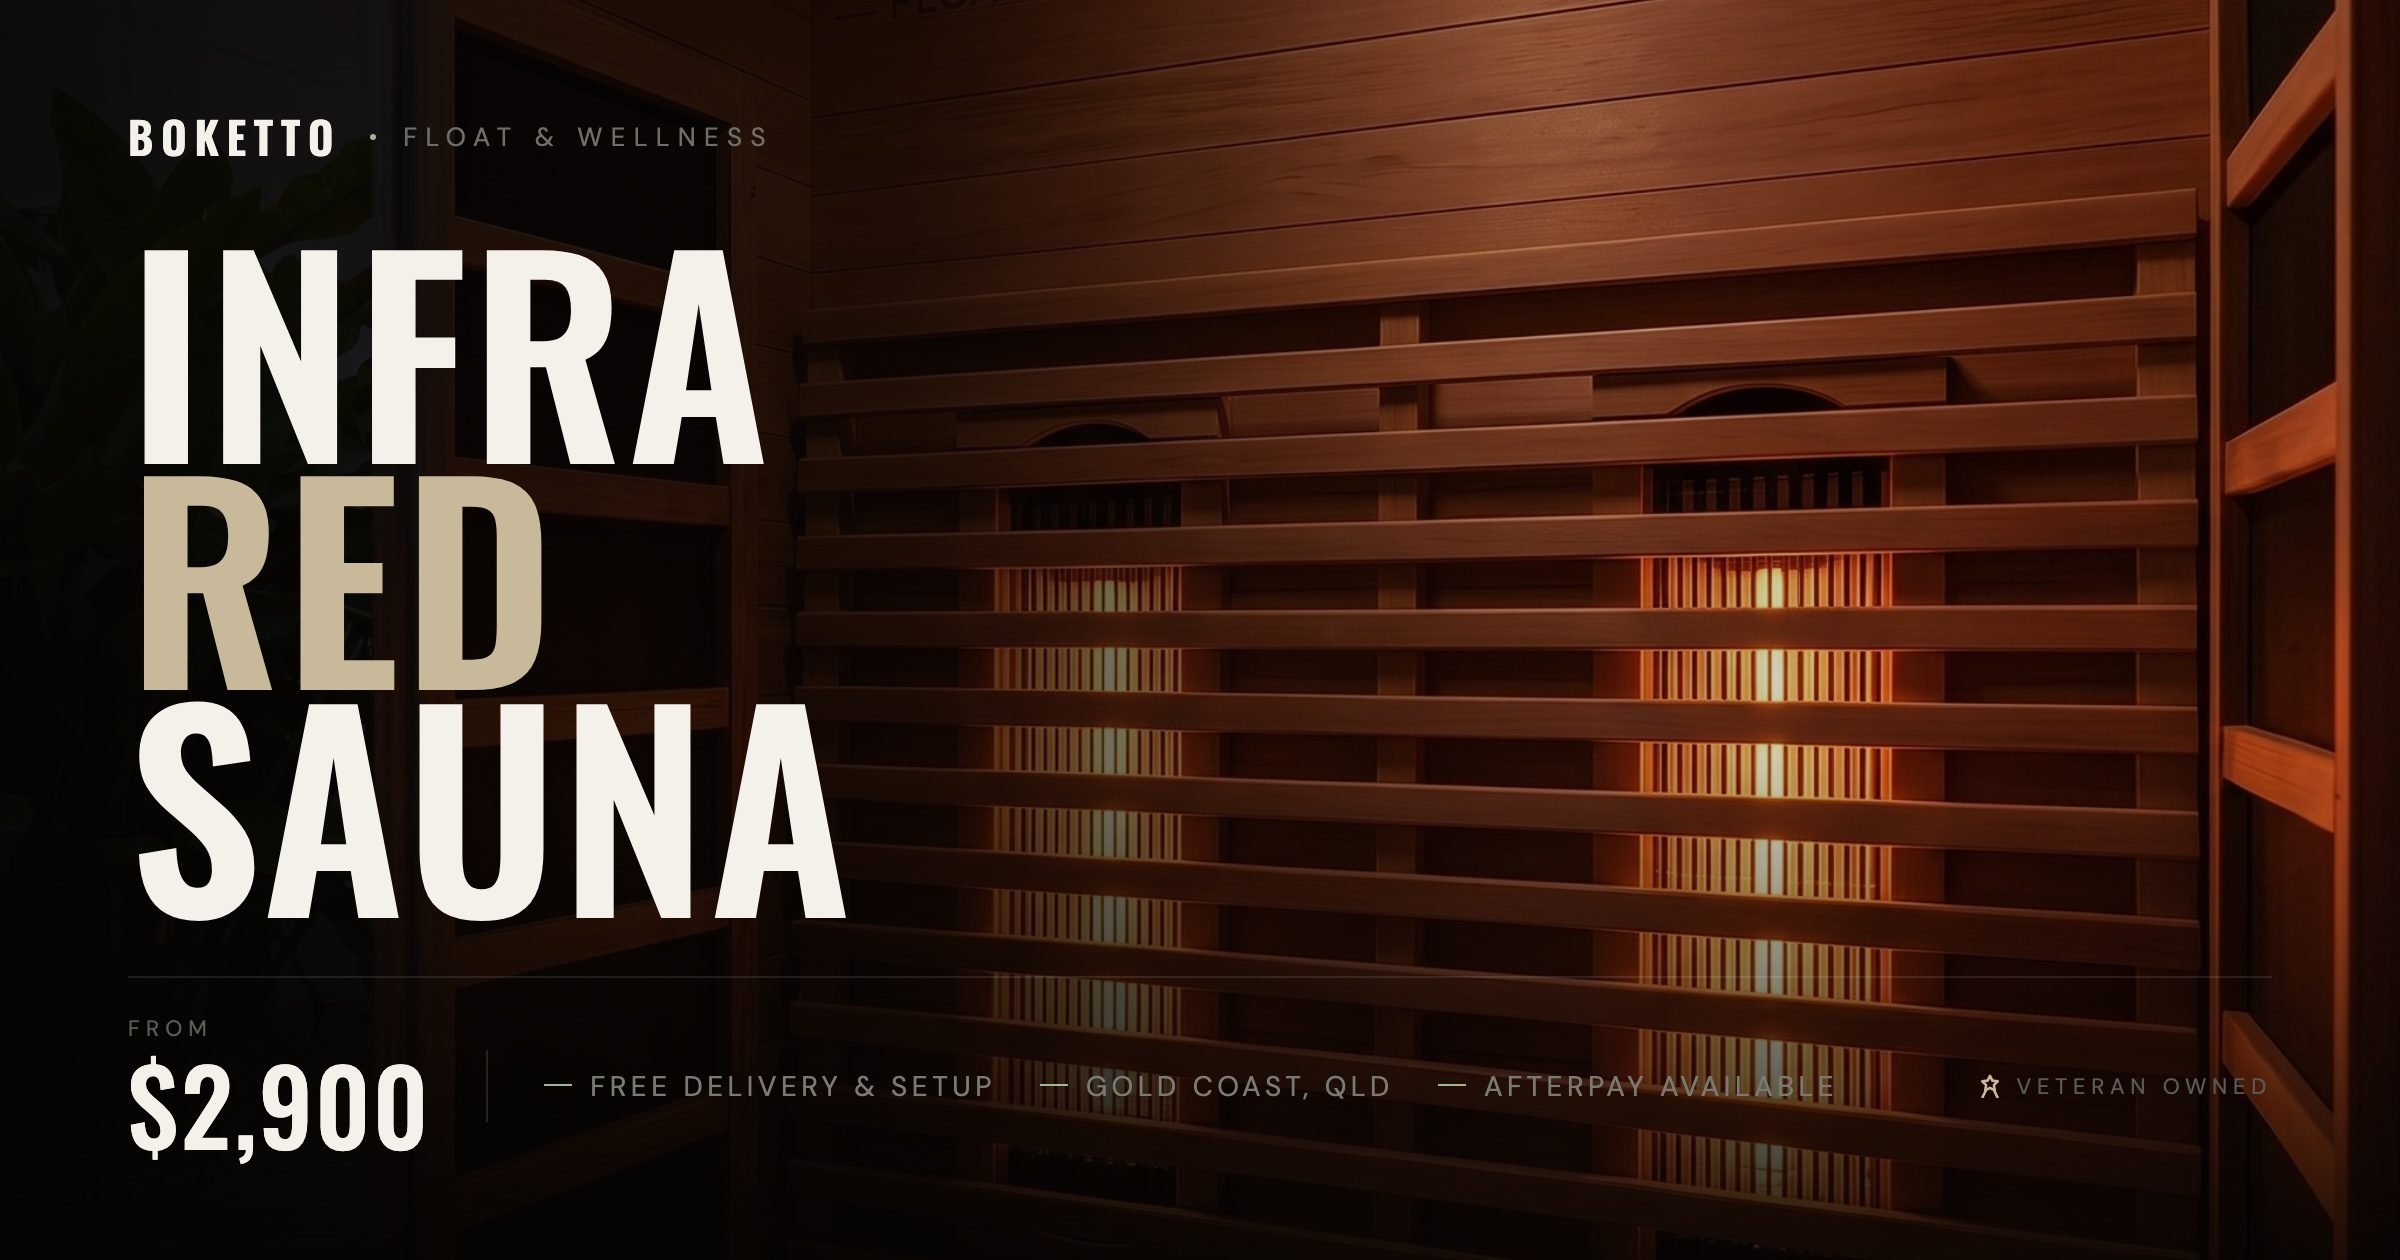
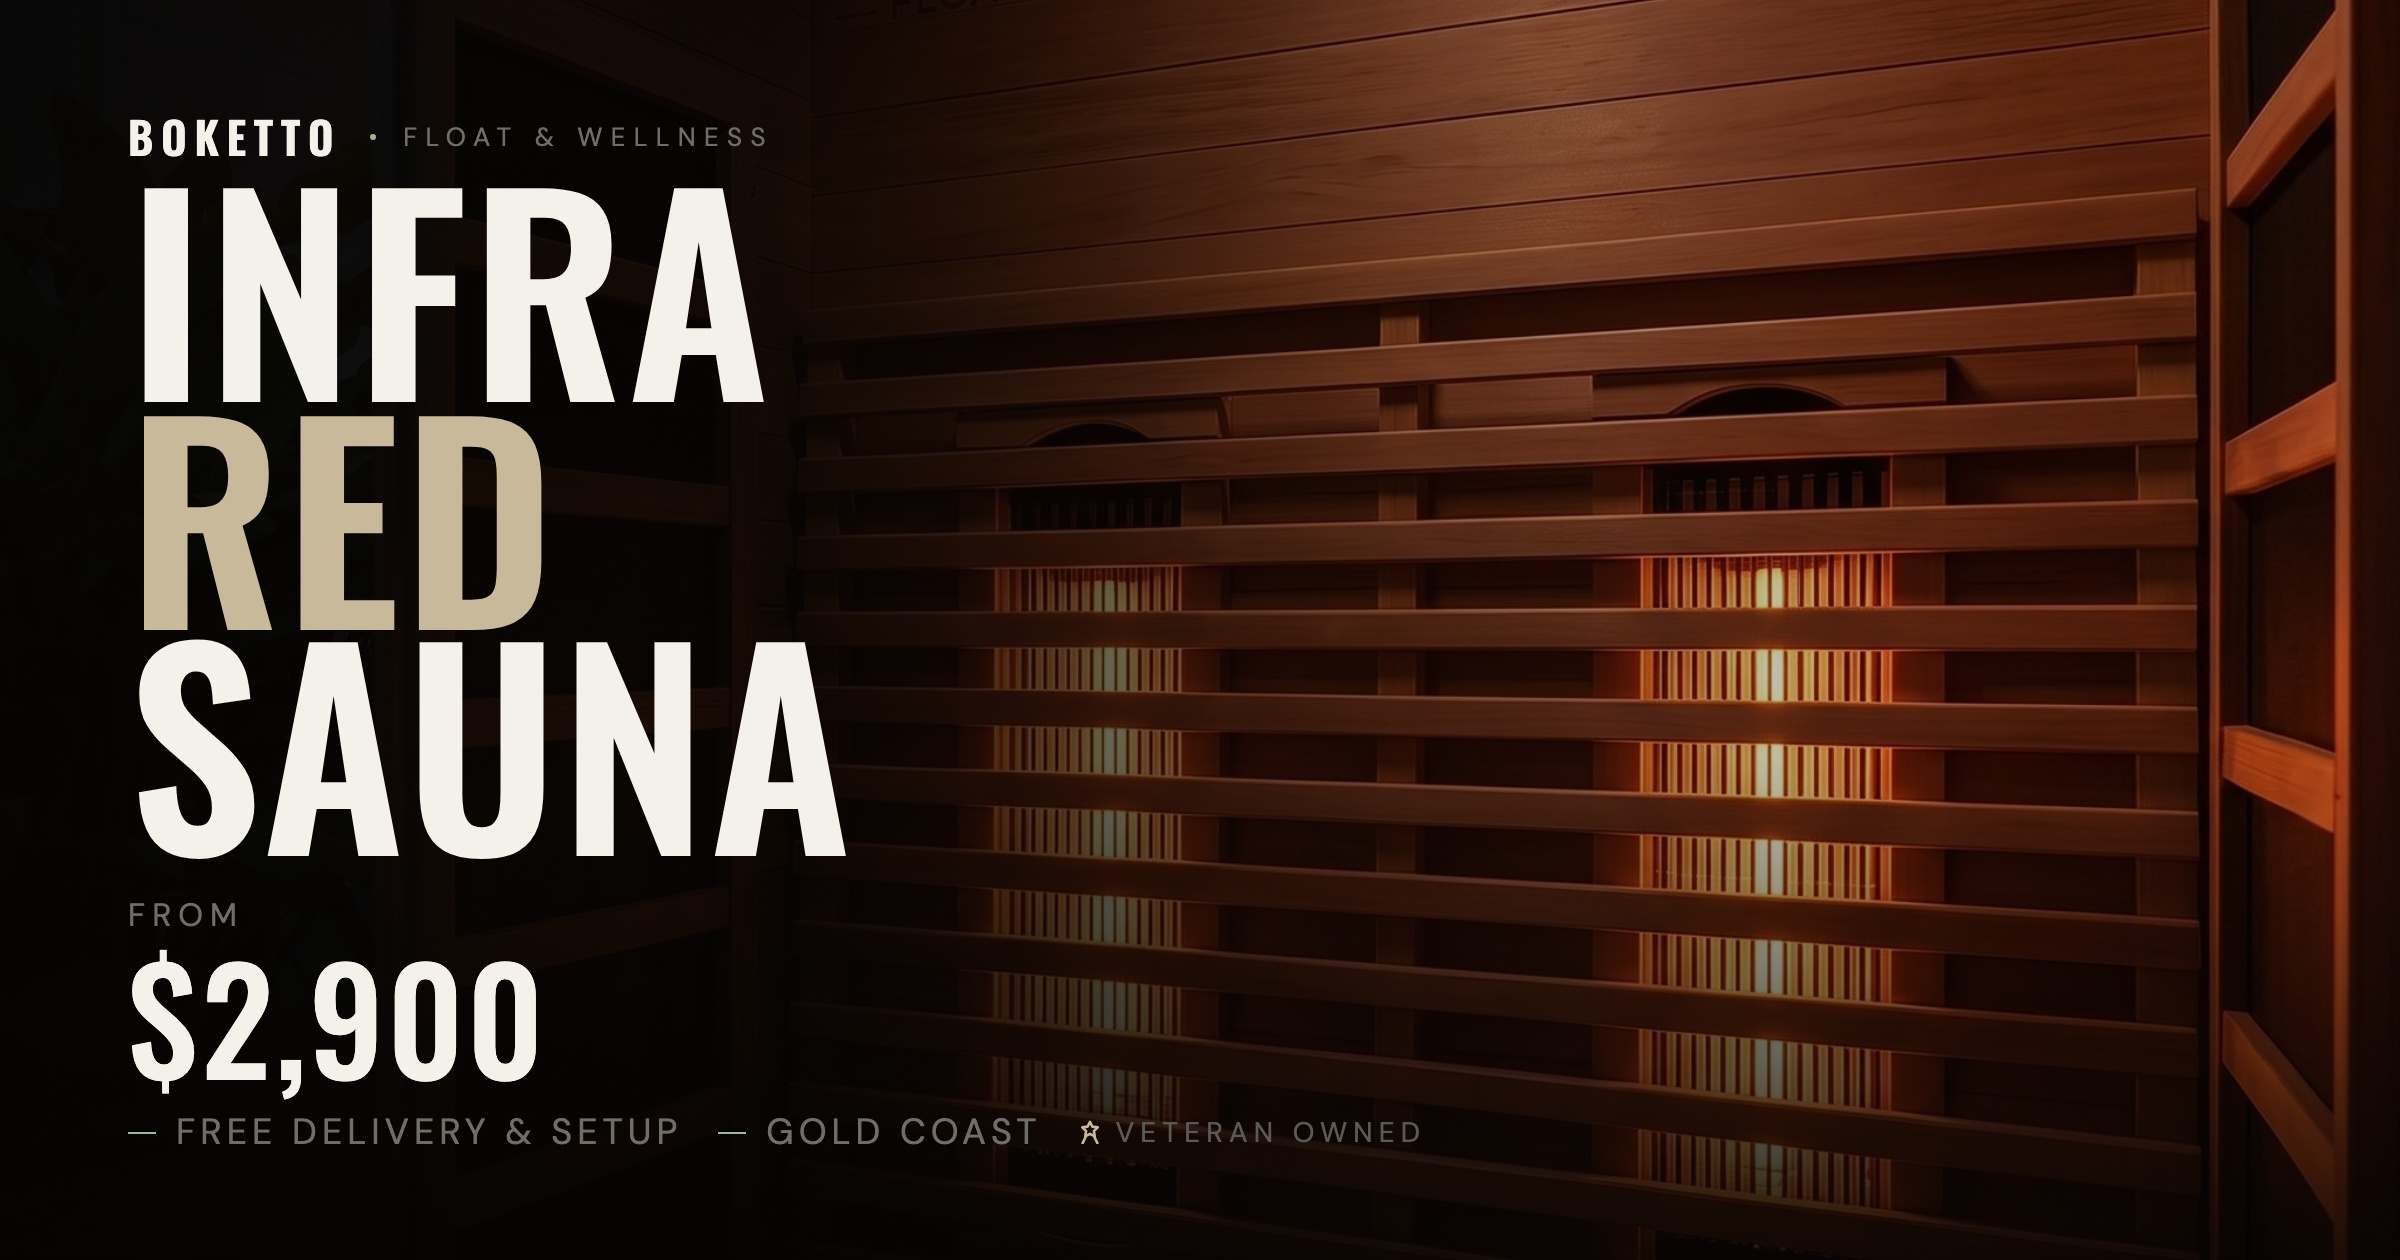
update: iMessage-optimised thumbnail — bigger price, no fine print bar
Price moved into main stack at 72px (readable at 4x scale-down).
Spec bar removed — only headline + price survive iMessage thumbnail.
Stronger left gradient for legibility.

diff --git a/social-card.html b/social-card.html
@@ -32,9 +32,9 @@
     inset: 0;
     background: linear-gradient(
       to right,
-      rgba(5,4,3,0.92) 0%,
-      rgba(5,4,3,0.72) 38%,
-      rgba(5,4,3,0.28) 62%,
+      rgba(5,4,3,0.96) 0%,
+      rgba(5,4,3,0.88) 32%,
+      rgba(5,4,3,0.40) 58%,
       rgba(5,4,3,0.0)  100%
     );
   }
@@ -103,73 +103,57 @@
   .headline-inner { display: block; }
   .headline .stone { color: #c8b99a; }
 
-  /* Bottom bar — single row, no wrapping */
-  .bottom {
-    display: flex;
-    align-items: center;
-    gap: 0;
-    padding-top: 18px;
-    border-top: 1px solid rgba(255,255,255,0.1);
-    white-space: nowrap;
+  /* Price block — sits below headline, big enough to survive 4× scale-down */
+  .price-block {
+    margin-top: 20px;
+  }
+  .price-from {
+    font-family: 'DM Sans', sans-serif;
+    font-size: 16px;
+    letter-spacing: 0.22em;
+    text-transform: uppercase;
+    color: #6e6e66;
+    margin-bottom: 4px;
   }
   .price {
     font-family: 'Oswald', sans-serif;
     font-weight: 500;
-    font-size: 52px;
+    font-size: 72px;
     line-height: 1;
     color: #f4f1eb;
     letter-spacing: 0.02em;
-    flex-shrink: 0;
   }
-  .price-from {
+  .price-sub {
     font-family: 'DM Sans', sans-serif;
-    font-size: 11px;
-    letter-spacing: 0.28em;
+    font-size: 18px;
+    letter-spacing: 0.14em;
     text-transform: uppercase;
-    color: #5a5a54;
-    margin-bottom: 5px;
-  }
-  .vdivider {
-    width: 1px; height: 36px;
-    background: rgba(255,255,255,0.12);
-    flex-shrink: 0;
-    margin: 0 28px;
-  }
-  .spec-row {
+    color: #6e6e66;
+    margin-top: 10px;
     display: flex;
     align-items: center;
-    gap: 22px;
-    flex: 1;
+    gap: 18px;
   }
-  .spec {
-    font-family: 'DM Sans', sans-serif;
-    font-size: 14px;
-    letter-spacing: 0.16em;
-    text-transform: uppercase;
-    color: #7a7a72;
+  .price-sub span {
     display: flex;
     align-items: center;
-    gap: 9px;
-    white-space: nowrap;
+    gap: 10px;
   }
-  .spec::before {
+  .price-sub span::before {
     content: '';
     display: block;
     width: 14px; height: 1px;
     background: #9fb890;
-    flex-shrink: 0;
   }
   .veteran {
-    margin-left: auto;
     display: flex;
     align-items: center;
     gap: 7px;
     font-family: 'DM Sans', sans-serif;
-    font-size: 11px;
-    letter-spacing: 0.26em;
+    font-size: 14px;
+    letter-spacing: 0.22em;
     text-transform: uppercase;
     color: #5a5a54;
-    flex-shrink: 0;
   }
   .veteran svg { color: #c8b99a; }
 </style>
@@ -193,16 +177,12 @@
       <span class="headline-inner">INFRA<br><span class="stone">RED</span><br>SAUNA</span>
     </div>
 
-    <div class="bottom">
-      <div>
-        <div class="price-from">From</div>
-        <div class="price">$2,900</div>
-      </div>
-      <div class="vdivider"></div>
-      <div class="spec-row">
-        <div class="spec">Free Delivery &amp; Setup</div>
-        <div class="spec">Gold Coast, QLD</div>
-        <div class="spec">Afterpay Available</div>
+    <div class="price-block">
+      <div class="price-from">From</div>
+      <div class="price">$2,900</div>
+      <div class="price-sub">
+        <span>Free Delivery &amp; Setup</span>
+        <span>Gold Coast</span>
         <div class="veteran">
           <svg width="12" height="12" viewBox="0 0 13 13" fill="none" stroke="currentColor" stroke-width="1.4" stroke-linecap="round" stroke-linejoin="round">
             <path d="M6.5 1l1.3 2.6 2.9.4-2.1 2 .5 2.9L6.5 7.5 3.9 8.9l.5-2.9-2.1-2 2.9-.4z"/>